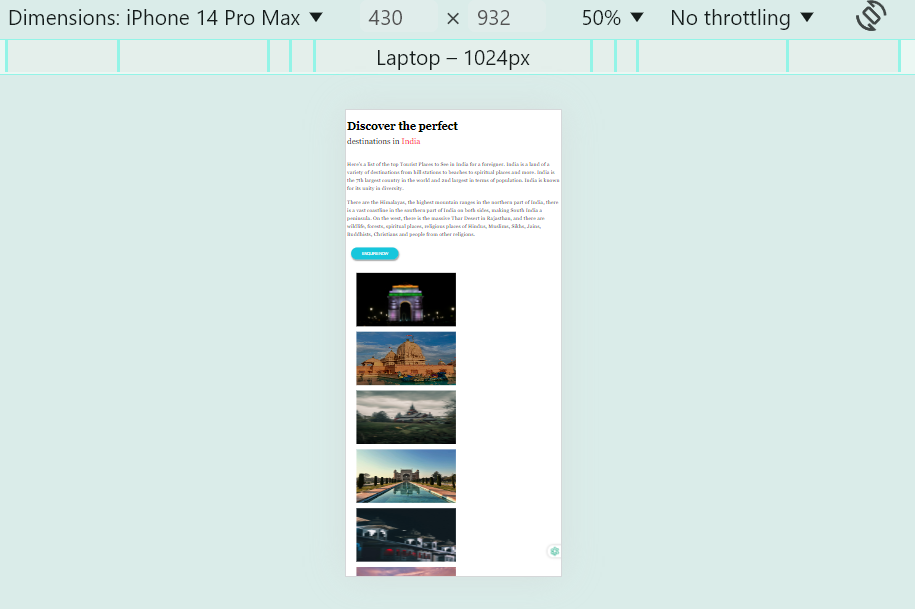
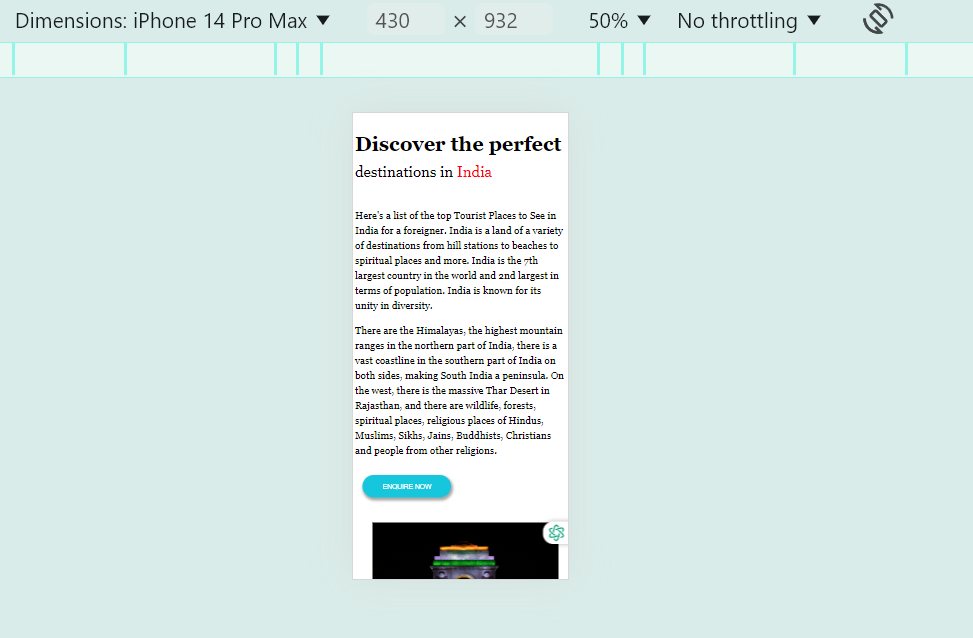
Add files via upload

Changed region(s): [[0.3366, 0.156, 0.612, 0.9672], [0.0, 0.0, 1.0, 0.1248]]

diff --git a/03-assignment_webpage__PranayP/style.css b/03-assignment_webpage__PranayP/style.css
@@ -30,7 +30,7 @@ span {
 
 #firstpara {
     /* border: 2px solid black; */
-    width: 800px;
+    max-width: 800px;
     margin-top: 50px;
     z-index: 1;
 }
@@ -39,7 +39,7 @@ span {
 
 #secondpara {
     /* border: 2px solid black; */
-    width: 800px;
+   max-width: 800px;
     z-index: 1;
 }
 
